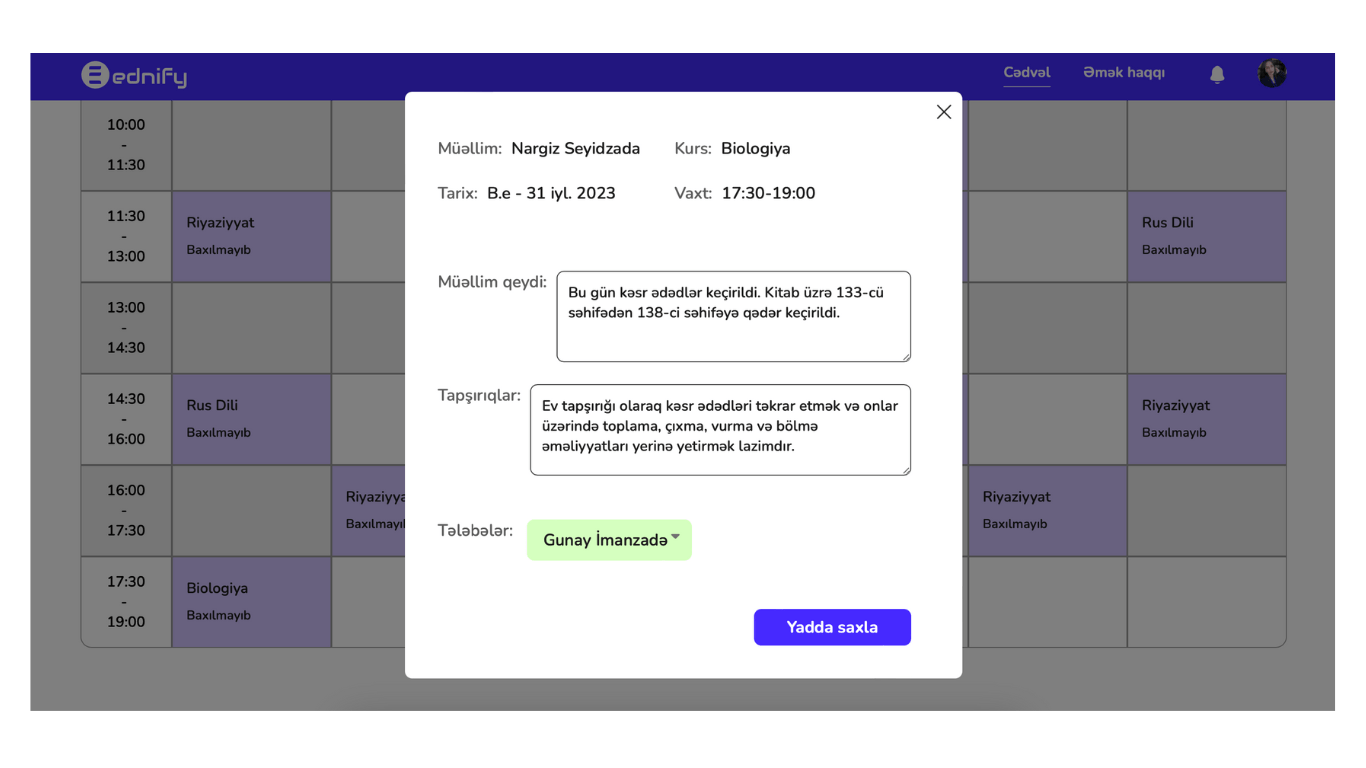
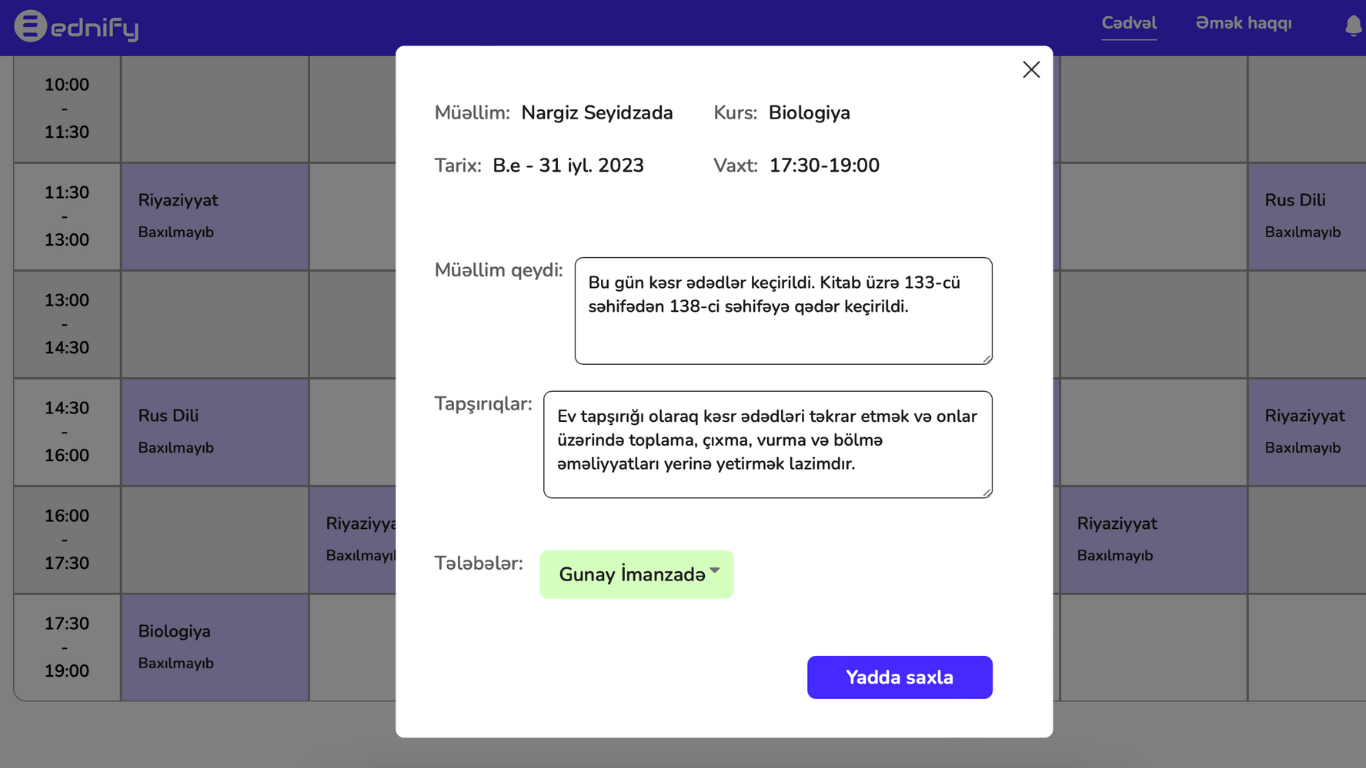
change color and img

diff --git a/src/App.css b/src/App.css
@@ -1,7 +1,7 @@
 
 
 nav{
-  background-color: #0973ba;
+  background-color: #482aff;
   height: 80px;
   position: sticky;
   top: 0;
@@ -10,20 +10,13 @@ nav{
   justify-content: flex-start;
   align-items: center;
   z-index: 999;
+  box-shadow: 0 5px 5px rgba(5,25,114,.4);
 }
 
 nav div {
   width: 90%;
   margin: auto;
-  /* display: flex; */
-  /* justify-content: space-between; */
 }
-
-/* 
-.logo p{
-  
-  font-family: 'Audiowide', sans-serif;
-} */
 
 nav ul {
   display: flex;
@@ -57,7 +50,7 @@ nav ul li:nth-of-type(2){
 }
 
 nav ul li:nth-of-type(2) a{
-  color: #197dbf;
+  color: #482aff;
   font-size: 20px;
   font-weight: 600;
 }
@@ -89,7 +82,7 @@ nav ul li:nth-of-type(2) a{
 /* section one  */
 
 .SectionOne {
-  background-color: #197dbf;
+  background-color: #482aff;
   padding:60px 0px;
   display: flex;
   flex-direction: column;
@@ -126,7 +119,7 @@ nav ul li:nth-of-type(2) a{
   display: inline-block;
   background-color: #fff;
   box-shadow: 0 5px 25px -3px #3867d6;
-  color: #197dbf;
+  color: #482aff;
   cursor: pointer;
   padding: 10px 20px;
   border-radius: 50px;
@@ -186,7 +179,7 @@ nav ul li:nth-of-type(2) a{
 .SectionTwo
 .head_text{
   text-align: center;
-  background-color: #197dbf;
+  background-color: #482aff;
   padding: 60px 0px;
 }
 
@@ -320,7 +313,7 @@ nav ul li:nth-of-type(2) a{
 .SectionThree
 .head_text h4{
   margin: 50px auto 20px auto;
-  color: #197dbf;
+  color: #482aff;
   font-size: 20px;
   font-weight: 800;
 }
@@ -334,9 +327,14 @@ nav ul li:nth-of-type(2) a{
 .text-box{
   padding: 15px;
   background-color: #fff;
-  border-left: 5px solid #197dbf;
+  border-left: 5px solid #482aff;
   box-shadow: 0 0 20px -4px #c2cfd6;
   height: 100%;
+}
+
+.SectionThree 
+.text-box i{
+  color:#482aff;
 }
 
 .SectionThree
@@ -350,7 +348,7 @@ nav ul li:nth-of-type(2) a{
 /* section four */
 
 .SectionFour{
-  background-color: #197dbf;
+  background-color: #482aff ;
   margin-bottom: 20px auto;
 }
 
@@ -423,7 +421,7 @@ nav ul li:nth-of-type(2) a{
 }
 
 .Footer .box div i{
-   background-color: #197dbf;
+   background-color: #482aff;
     border-radius: 8px;
     box-shadow: 0 5px 25px -3px #197dbf;
     color: #fff;
@@ -661,7 +659,7 @@ a {
 }
 
 .demo-form-section .submit-btn:disabled {
-  background-color: #7c8ff5;
+  background-color: #482aff;
   pointer-events: none;
 }
 
